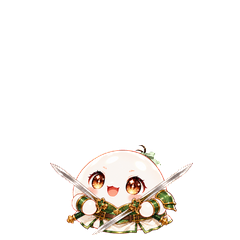
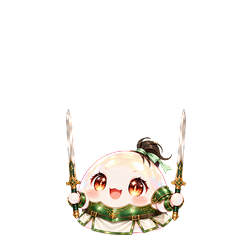
劉備造型改成雙手各持一劍直立在兩側，不交叉

Changed region(s): [[0.2042, 0.4375, 0.8167, 0.9917]]

diff --git a/scripts/gen_art.py b/scripts/gen_art.py
@@ -55,8 +55,9 @@ JOBS = {
     'outfit-liubei': (['slime', 'weapons', 'liubei_armor', 'liubei_pose'], OUTFIT + 'Costume of Liu Bei from image 3 (her short battle armor) turned into a cute slime outfit: '
                       'a small green metal chest plate, ONE green shoulder guard on the slime\'s left side only, small green bracers on both nub hands, '
                       'a short white single-layer skirt with green-trimmed belt around the lower body, a light green ribbon tying a small black hair tuft at the back, warm brown eyes. '
-                      'Weapon and pose like Liu Bei in image 4: the twin swords of Liu Bei exactly as in image 2 (third from left, two straight double-edged jian swords with gold guards and '
-                      'dark green grips), drawn, ONE sword gripped in EACH nub hand, the two blades crossed in an X in front of the lower body, tips pointing outward. ' + ROUND + plate('#0000FF', 'blue')),
+                      'Weapon like Liu Bei in image 4: the twin swords of Liu Bei exactly as in image 2 (third from left, two straight double-edged jian swords with gold guards and '
+                      'dark green grips), drawn, ONE sword in EACH nub hand: the left hand on the left side of the body and the right hand on the right side, each nub hand wrapped firmly around its sword grip, '
+                      'both swords held upright and parallel with blades pointing straight up beside the body, the swords do NOT cross and do NOT overlap the face or body. ' + ROUND + plate('#0000FF', 'blue')),
     'outfit-guanyu': (['slime', 'weapons', 'guanyu_armor'], OUTFIT + 'Costume of Guan Yu from image 3 (her battle armor) turned into a cute slime outfit: '
                       'a deep green fitted robe-armor with gold dragon embroidery and a gold waist belt with a small red knot, ONE ornate gold shoulder guard, '
                       'a long red cape with gold trim flowing behind, a very long black braid with a red tassel hanging down one side, amber eyes with a slightly proud brave look but still smiling. '

diff --git a/scripts/process_art.py b/scripts/process_art.py
@@ -30,7 +30,7 @@ LUBU = 'baihua'   # 呂布造型：baihua 百花戰袍／heijin 黑金戰甲
 
 # 造型小人身體（奶白圓頂在眼睛那一列）的寬度與中心 x，量的是 art/raw/outfit-*-cut.png（1254px）。
 # ponytail: 手量的校正表；自動量會被兵器桿、髮繩、披風干擾（試過兩種都差到 3 成）。重產哪張就重量哪張
-BODY_PX = {'lubu-baihua': (585, 580), 'lubu-heijin': (540, 520), 'liubei': (700, 614), 'guanyu': (514, 582), 'zhangfei': (572, 570)}
+BODY_PX = {'lubu-baihua': (585, 580), 'lubu-heijin': (540, 520), 'liubei': (640, 588), 'guanyu': (514, 582), 'zhangfei': (572, 570)}
 BODY = 88   # 平常那隻 128px 小人身體的寬度，造型都縮到一樣寬
 
 

diff --git a/README.md b/README.md
@@ -64,7 +64,7 @@
 - 貝殼鏡是穿衣鏡。四件兵器各解鎖一套造型：方天畫戟（呂布紅）、雙股劍（劉備白綠）、青龍偃月刀（關羽綠袍紅披風）、丈八蛇矛（張飛黑甲紅帶）。造型是「衣服＋兵器」的整套小人，一次穿一套，不分王子或姬。
 - 造型＝資料庫裡另一個角色（`role:"npc"`；寫成 party 又沒 joinVariable 會被選單當成同行的隊友），用 hero 步驟換人，`outfit` 跨週目保留，進培育室時換回去。
 - 選項卡的選項不能各自帶條件，所以穿衣鏡依「拿到哪幾件」的組合各一個分頁（4 件＝15 頁），選單只列拿到的。任務提示最多 16 條（超過播放器整個壞掉，`check_static` 會擋），「去穿衣鏡」只留一條，看 `mirror_new`。
-- 造型小人：`gen_art.py` 的 `outfit-*`，參考《三結義》的兵器對照表與《香布纏》的戰甲定錨（劉備、關羽、張飛都是戰甲短甲；呂布有百花戰袍與黑金戰甲兩套，`process_art.py` 的 `LUBU` 選用哪套；劉備雙手各持一劍照《無雙》三英海報），從 `~/larch-taoyuan`、`~/xianquan-musou` 讀，不進本 repo。關羽身上有綠也有紅，關羽與劉備用藍幕。
+- 造型小人：`gen_art.py` 的 `outfit-*`，參考《三結義》的兵器對照表與《香布纏》的戰甲定錨（劉備、關羽、張飛都是戰甲短甲；呂布有百花戰袍與黑金戰甲兩套，`process_art.py` 的 `LUBU` 選用哪套；劉備雙手各持一劍、劍直立在身體兩側（交叉的版本手握不好，作者要求不交叉）），從 `~/larch-taoyuan`、`~/xianquan-musou` 讀，不進本 repo。關羽身上有綠也有紅，關羽與劉備用藍幕。
 - 造型小人的大小：兵器長短不一，整張塞進 128 會讓身體忽大忽小，所以改成身體寬度跟平常那隻一樣（`BODY_PX` 是手量的校正表，重產哪張就重量哪張），畫布放大到裝得下最長的兵器（目前 240px）。引擎會把大畫布縮回同一個框，所以 `build.py` 照圖檔尺寸宣告寬高，`scale` 也照畫布比例放大（3×240/128），地圖上實測身體跟平常那隻一樣大。
 - 名字存在 `rpgState` 的 `@names`（依角色 id），選單「冒險者」照目前角色 id 查，查不到就顯示預設名「王子姬」。換造型就換了 id，所以時鐘 HUD 把名字抄到 `pet_name`（文字一律用 `{{pet_name}}`），也替每個造型角色 id 在 `@names` 填上同一個名字。
 - 本機測不到真的收藏（要登入帳號），用 `--cross=lubu,guanyu` 假裝收藏裡有。
